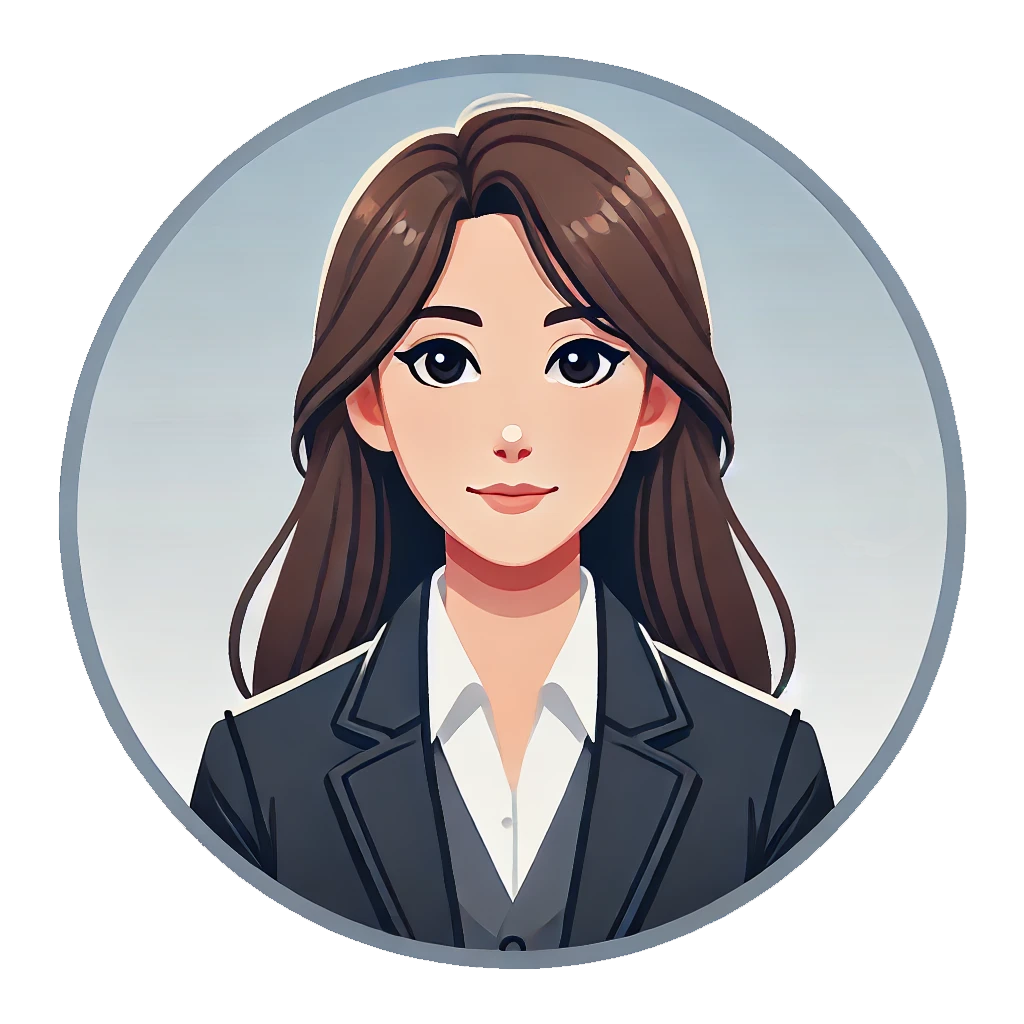
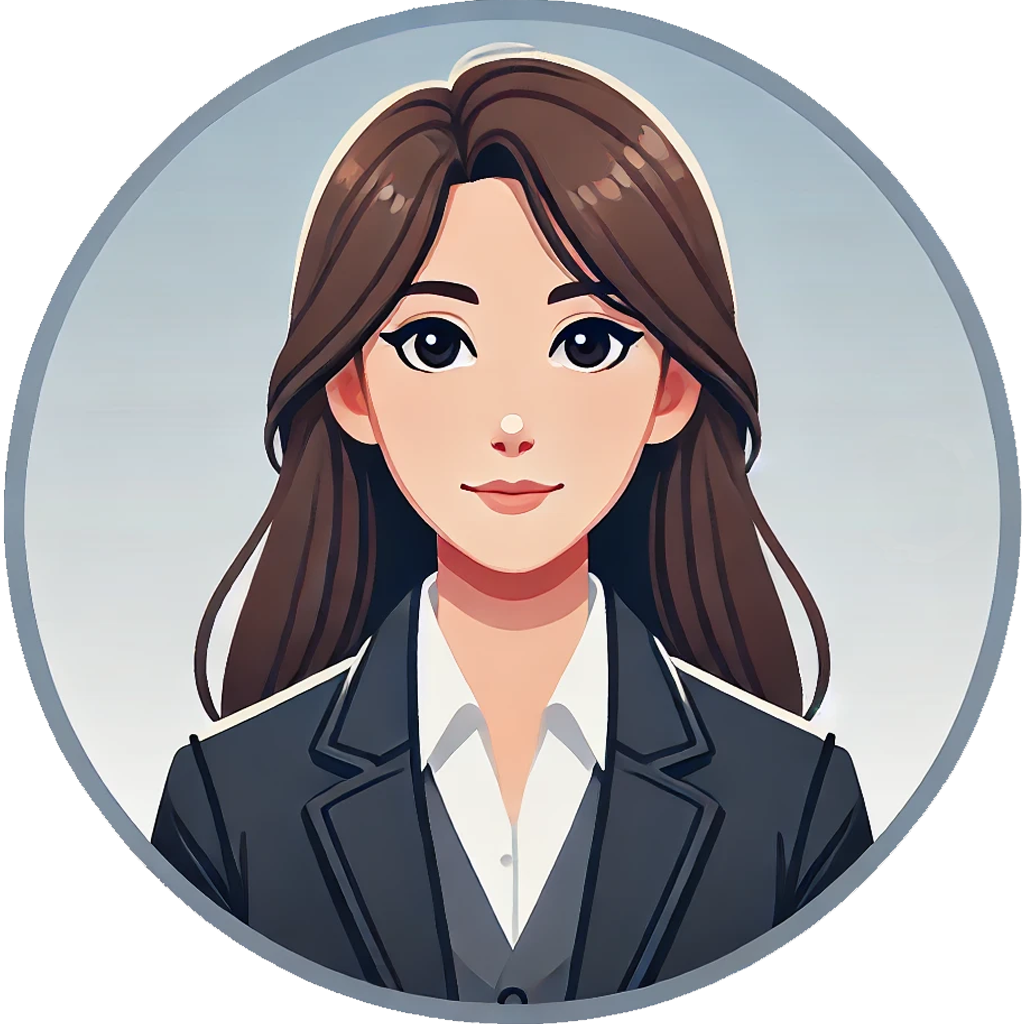
Improved spoken interview experience

diff --git a/src/components/Chat.jsx b/src/components/Chat.jsx
@@ -3,11 +3,10 @@ import { useState, useEffect, useRef } from 'react';
 import { useNavigate } from 'react-router-dom';
 import './Chat.css';
 import InterviewParameters from './interview-parameters/InterviewParameters';
-import TranscriptDisplay from './TranscriptDisplay';
-import axios from 'axios';
 import NavBar from './NavBar';
 import { FaMicrophone } from 'react-icons/fa'; // Install with: npm install react-icons
 import RecordRTC from 'recordrtc';
+import InterviewerProfilePicture from './interviewer-profile-picture/InterviewerProfilePicture';
 
 
 function Chat() {
@@ -21,8 +20,10 @@ function Chat() {
     const [interviewMode, setInterviewMode] = useState("text");
     const [isWaiting, setIsWaiting] = useState(false);
     const [speechError, setSpeechError] = useState(false);
+    const [audioUrl, setAudioUrl] = useState(null);
     const recorderRef = useRef(null);
     const streamRef = useRef(null); // Reference to store the MediaStream
+    const [shouldEnd, setShouldEnd] = useState(false);
 
     const MAX_CHARS = 500;
 
@@ -40,13 +41,15 @@ function Chat() {
             "int": interviewStyle,
             "mode": interviewMode
         }
-        
-        try{
 
-            
-            const {error, response: interviewId} = await apiService.createInterviewSession(parameters, jobDescription);
-            
-            if (error){
+        try
+        {
+
+
+            const { error, response: interviewId } = await apiService.createInterviewSession(parameters, jobDescription);
+
+            if (error)
+            {
                 return;
             }
 
@@ -55,7 +58,8 @@ function Chat() {
             setStarted(true);
             setIsInterviewEnded(false);
         }
-        catch(error){
+        catch (error)
+        {
             console.error(error);
         }
     }
@@ -107,9 +111,10 @@ function Chat() {
         setChatMessages(prevMessages => [...prevMessages, { sender: 'user', text: message }]);
         setUserInput("");
 
-        let {response: reply, error} = await apiService.sendMessage(message, currentInterviewSession);
+        let { response: reply, error } = await apiService.sendMessage(message, currentInterviewSession);
 
-        if (error){
+        if (error)
+        {
             console.error(error);
             return;
         }
@@ -140,6 +145,8 @@ function Chat() {
 
     const sendRecording = async (file) => {
         setIsWaiting(true);
+
+        //Convert speech to text
         let { response, error } = await apiService.speechToText(file, currentInterviewSession);
 
         if (error)
@@ -149,6 +156,7 @@ function Chat() {
             return;
         }
 
+        //Send the converted message 
         ({ response, error } = await apiService.sendMessage(response.data.message, currentInterviewSession));
         console.log(response);
         if (error)
@@ -158,13 +166,16 @@ function Chat() {
             return;
         }
 
-        const shouldEnd = response.includes('/stop');
+        //If the chat sent '/stop', we want to end the interview
+        const ended = response.includes('/stop');
 
-        if (shouldEnd)
+        if (ended)
         {
             response = response.replace('/stop', '');
+            setShouldEnd(true);
         }
 
+        //Convert text to speech
         ({ response, error } = await apiService.textToSpeech(response));
         if (error)
         {
@@ -173,20 +184,15 @@ function Chat() {
             return;
         }
 
-        //Convert the AudioBuffer to blob
+        //Convert the received AudioBuffer to blob
         const blob = new Blob([response.data], { type: response.headers['content-type'] });
-        const audioUrl = URL.createObjectURL(blob);
-        const audio = new Audio(audioUrl);
+        setAudioUrl(URL.createObjectURL(blob));
+    }
 
-        audio.addEventListener('ended', function handler(event) {
-            setIsWaiting(false);
-            audio.removeEventListener('ended', handler);
-            if (shouldEnd) setIsInterviewEnded(true);
-        });
-
-        //Play it
-        audio.play();
-
+    const onAiSpeechEnded = () => {
+        setIsWaiting(false);
+        if (shouldEnd) setIsInterviewEnded(true);
+        setAudioUrl(null);
     }
 
     const startRecording = async () => {
@@ -223,7 +229,7 @@ function Chat() {
                 streamRef.current.getTracks().forEach((track) => track.stop());
             }
 
-            sendRecording(blob);    
+            sendRecording(blob);
         });
     };
 
@@ -311,9 +317,9 @@ function Chat() {
 
                     {/* Speech mode */}
                     {interviewMode === "speech" && <div className="interview-speech-section">
-                        <div className='interviewer-picture'>
-                            <img src="/InterviewerPfpFemale.png"></img>
-                        </div>
+
+                        {/* <input type='file' onChange={(e) => setAudioUrl(URL.createObjectURL(e.target.files[0]))}></input> */}
+                        <InterviewerProfilePicture audioUrl={audioUrl} onSpeechEnded={onAiSpeechEnded} />
                         <button className={`mic-button`} onClick={handleRecordStateChange} disabled={isWaiting || isInterviewEnded}>
                             <FaMicrophone />
                         </button>

diff --git a/src/components/interviewer-profile-picture/InterviewerProfilePicture.jsx b/src/components/interviewer-profile-picture/InterviewerProfilePicture.jsx
@@ -1,0 +1,80 @@
+import { useState, useEffect, useRef } from 'react';
+import './InterviewerProfilePicture.css'
+
+export default function InterviewerProfilePicture({ audioUrl, onSpeechEnded }) {
+    const audioContextRef = useRef();
+    const analyzerRef = useRef();
+    const audioRef = useRef(null);
+    const [volume, setVolume] = useState(0);
+    const sourceRef = useRef(null);
+    const animationFrameRef = useRef();
+
+    const handleSpeechEnd = () => {
+        cancelAnimationFrame(animationFrameRef.current);
+        setVolume(0);
+        onSpeechEnded();
+    }
+
+    useEffect(() => {
+        audioContextRef.current = new AudioContext(window.AudioContext || window.webkitAudioContext);
+        analyzerRef.current = audioContextRef.current.createAnalyser();
+        analyzerRef.current.fftSize = 256;
+    }, [])
+
+
+    useEffect(() => {
+        if (!audioUrl || !audioContextRef || !audioRef) return;
+
+        if (!sourceRef.current){
+            sourceRef.current = audioContextRef.current.createMediaElementSource(audioRef.current);
+            sourceRef.current.connect(analyzerRef.current);
+            analyzerRef.current.connect(audioContextRef.current.destination);
+        } 
+
+        const dataArray = new Uint8Array(analyzerRef.current.frequencyBinCount);
+
+        audioRef.current.play();
+
+        const updateVisualization = () => {
+            analyzerRef.current.getByteFrequencyData(dataArray);
+            // Use dataArray to update your visual elements
+            const avgVolume = dataArray.reduce((sum, value) => sum + value, 0) / dataArray.length;
+            console.log(avgVolume);
+            console.log("Loop");
+            setVolume(avgVolume);
+            // Loop the visualization
+            animationFrameRef.current = requestAnimationFrame(updateVisualization);
+        };
+
+        updateVisualization();
+
+    }, [audioUrl])
+
+    return (
+        <div>
+            <audio src={audioUrl} ref={audioRef} onEnded={handleSpeechEnd}/>
+            <div className='interviewer-picture'>
+                <img src="/InterviewerPfpFemale.png" />
+                <div
+                    style={{
+                        position: 'absolute',
+                        width: `calc(100% + 2px + ${volume / 25 * 5}px)`,
+                        height: `calc(100% + 2px + ${volume / 25 * 5}px)`,
+                        backgroundColor: '#6366F1',
+                        transform: "translate(-50%, -50%)",
+                        top: '50%',
+                        left: '50%',
+
+                        // opacity: 1,
+                        opacity: Math.min(volume / 65, 1),
+                        transition: 'opacity 0.05s linear',
+                        borderRadius: '100%',
+                        zIndex: '0',
+
+                    }}
+                />
+            </div>
+
+        </div>
+    );
+};

diff --git a/src/components/interviewer-profile-picture/InterviewerProfilePicture.css b/src/components/interviewer-profile-picture/InterviewerProfilePicture.css
@@ -1,0 +1,19 @@
+.interviewer-picture {
+    width: 300px;
+    height: 300px;
+    position: relative;
+    /* overflow: hidden; */
+}
+
+.interviewer-picture>img {
+    position: absolute;
+    top: 50%;
+    left: 50%;
+    transform: translate(-50%, -50%);
+    user-select: none;
+    pointer-events: none;
+    width: 95%;
+    height: 95%;
+    object-fit: cover;
+    z-index: 1;
+}

diff --git a/test-server/controllers/interview.js b/test-server/controllers/interview.js
@@ -164,6 +164,7 @@ const sendMessage = async (req, res, next) => {
 
 const create = async (req, res) => {
 
+    // return res.sendStatus(200)
     const parameters = await JSON.parse(req.body.parameters || "");
 
     if (req.body.parameters == "" || parameters.quality === undefined || parameters.beh === undefined)

diff --git a/src/components/Chat.css b/src/components/Chat.css
@@ -343,17 +343,3 @@
     align-items: center;
     flex-direction: column;
 }
-
-.interviewer-picture{
-    width: 300px;
-    height: 300px;
-    overflow: hidden;
-}
-
-.interviewer-picture>img{
-    user-select: none;
-    pointer-events: none;
-    width: 100%;
-    height: 100%;
-    object-fit: cover;
-}
